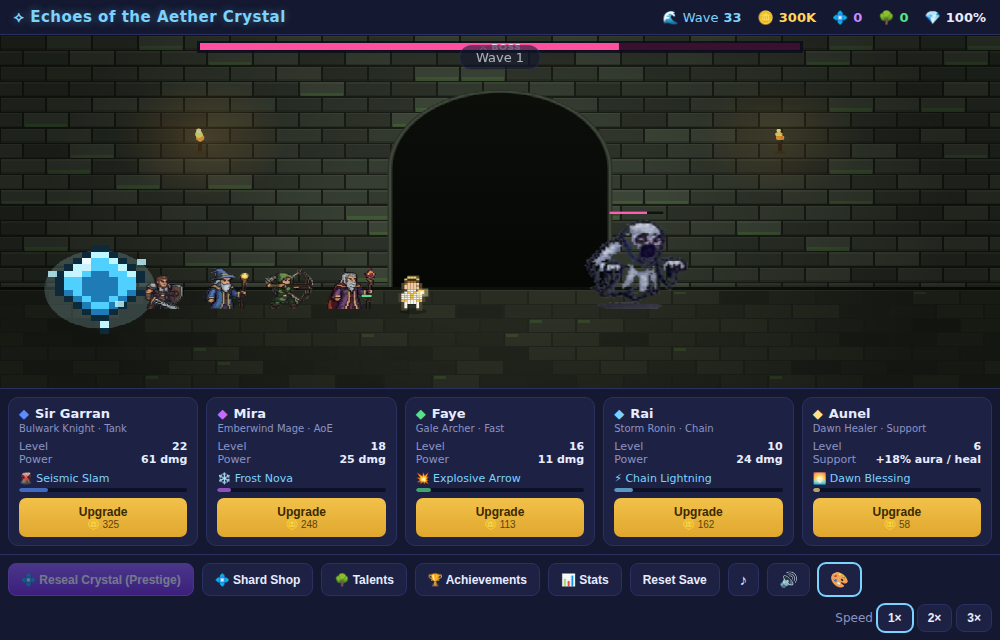
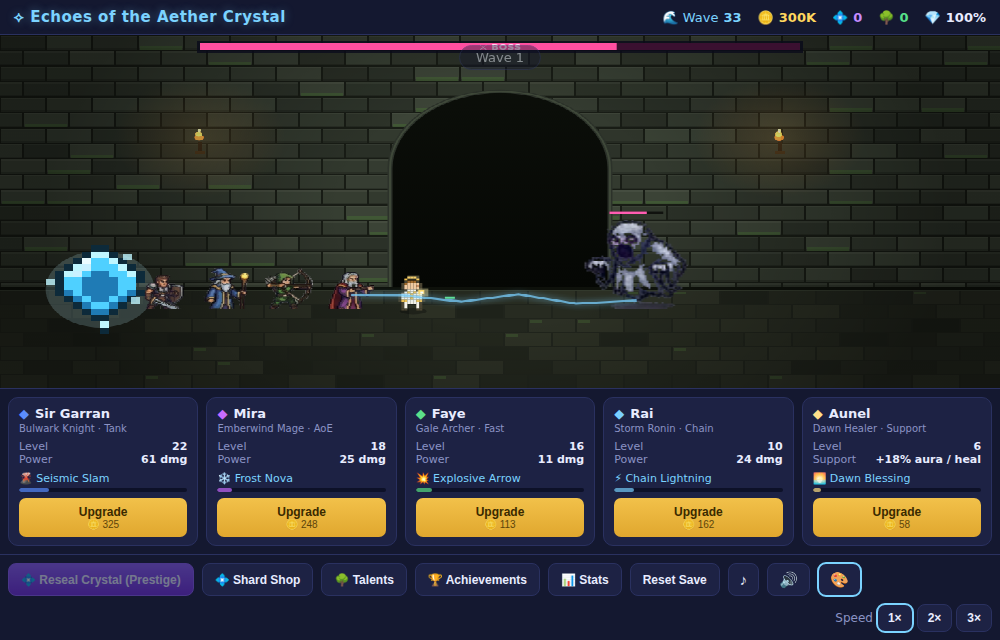
Flip monsters to face the crystal
Bestiary monster art faces right, but enemies march left toward the crystal, so
they appeared to walk backwards. Set flip:true on all monsters (and both
bosses) so they face their direction of travel. Heroes stay unflipped (their art
already faces right toward the enemies). verify7 updated.

Claude-Session: https://claude.ai/code/session_0137Kmgx8usseqRPpPc7daxH

diff --git a/sheets.js b/sheets.js
@@ -40,12 +40,12 @@ window.Sheets = (function () {
     rai:    { file:'sorcerer.png', rows:2, cols:3, fit:HFIT, anim:bmob(2,3) },  // Sorcerer
     // monsters — extracted from the bestiary (idle + attack rows). Face left
     // = the direction they march, so no flip.
-    slime:      { file:'slime.png',      rows:2, cols:11, fit:1.0, anim:bmob(6,11) },  // earth
-    zombie:     { file:'zombie.png',     rows:2, cols:5,  fit:1.0, anim:bmob(3,5)  },  // poison
-    specter:    { file:'specter.png',    rows:2, cols:5,  fit:1.0, anim:bmob(2,5)  },  // dark
-    skeleton:   { file:'skeleton.png',   rows:2, cols:7,  fit:1.0, anim:bmob(2,7)  },  // tank
-    dragon:     { file:'dragon.png',     rows:2, cols:4,  fit:1.0, anim:bmob(4,4)  },  // Boss (fire)
-    elderghost: { file:'elderghost.png', rows:2, cols:5,  fit:1.0, anim:bmob(3,5)  },  // Boss (dark)
+    slime:      { file:'slime.png',      rows:2, cols:11, fit:1.0, flip:true, anim:bmob(6,11) },  // earth
+    zombie:     { file:'zombie.png',     rows:2, cols:5,  fit:1.0, flip:true, anim:bmob(3,5)  },  // poison
+    specter:    { file:'specter.png',    rows:2, cols:5,  fit:1.0, flip:true, anim:bmob(2,5)  },  // dark
+    skeleton:   { file:'skeleton.png',   rows:2, cols:7,  fit:1.0, flip:true, anim:bmob(2,7)  },  // tank
+    dragon:     { file:'dragon.png',     rows:2, cols:4,  fit:1.0, flip:true, anim:bmob(4,4)  },  // Boss (fire)
+    elderghost: { file:'elderghost.png', rows:2, cols:5,  fit:1.0, flip:true, anim:bmob(3,5)  },  // Boss (dark)
   };
 
   const imgs = {};   // id -> { img, ok, failed }
